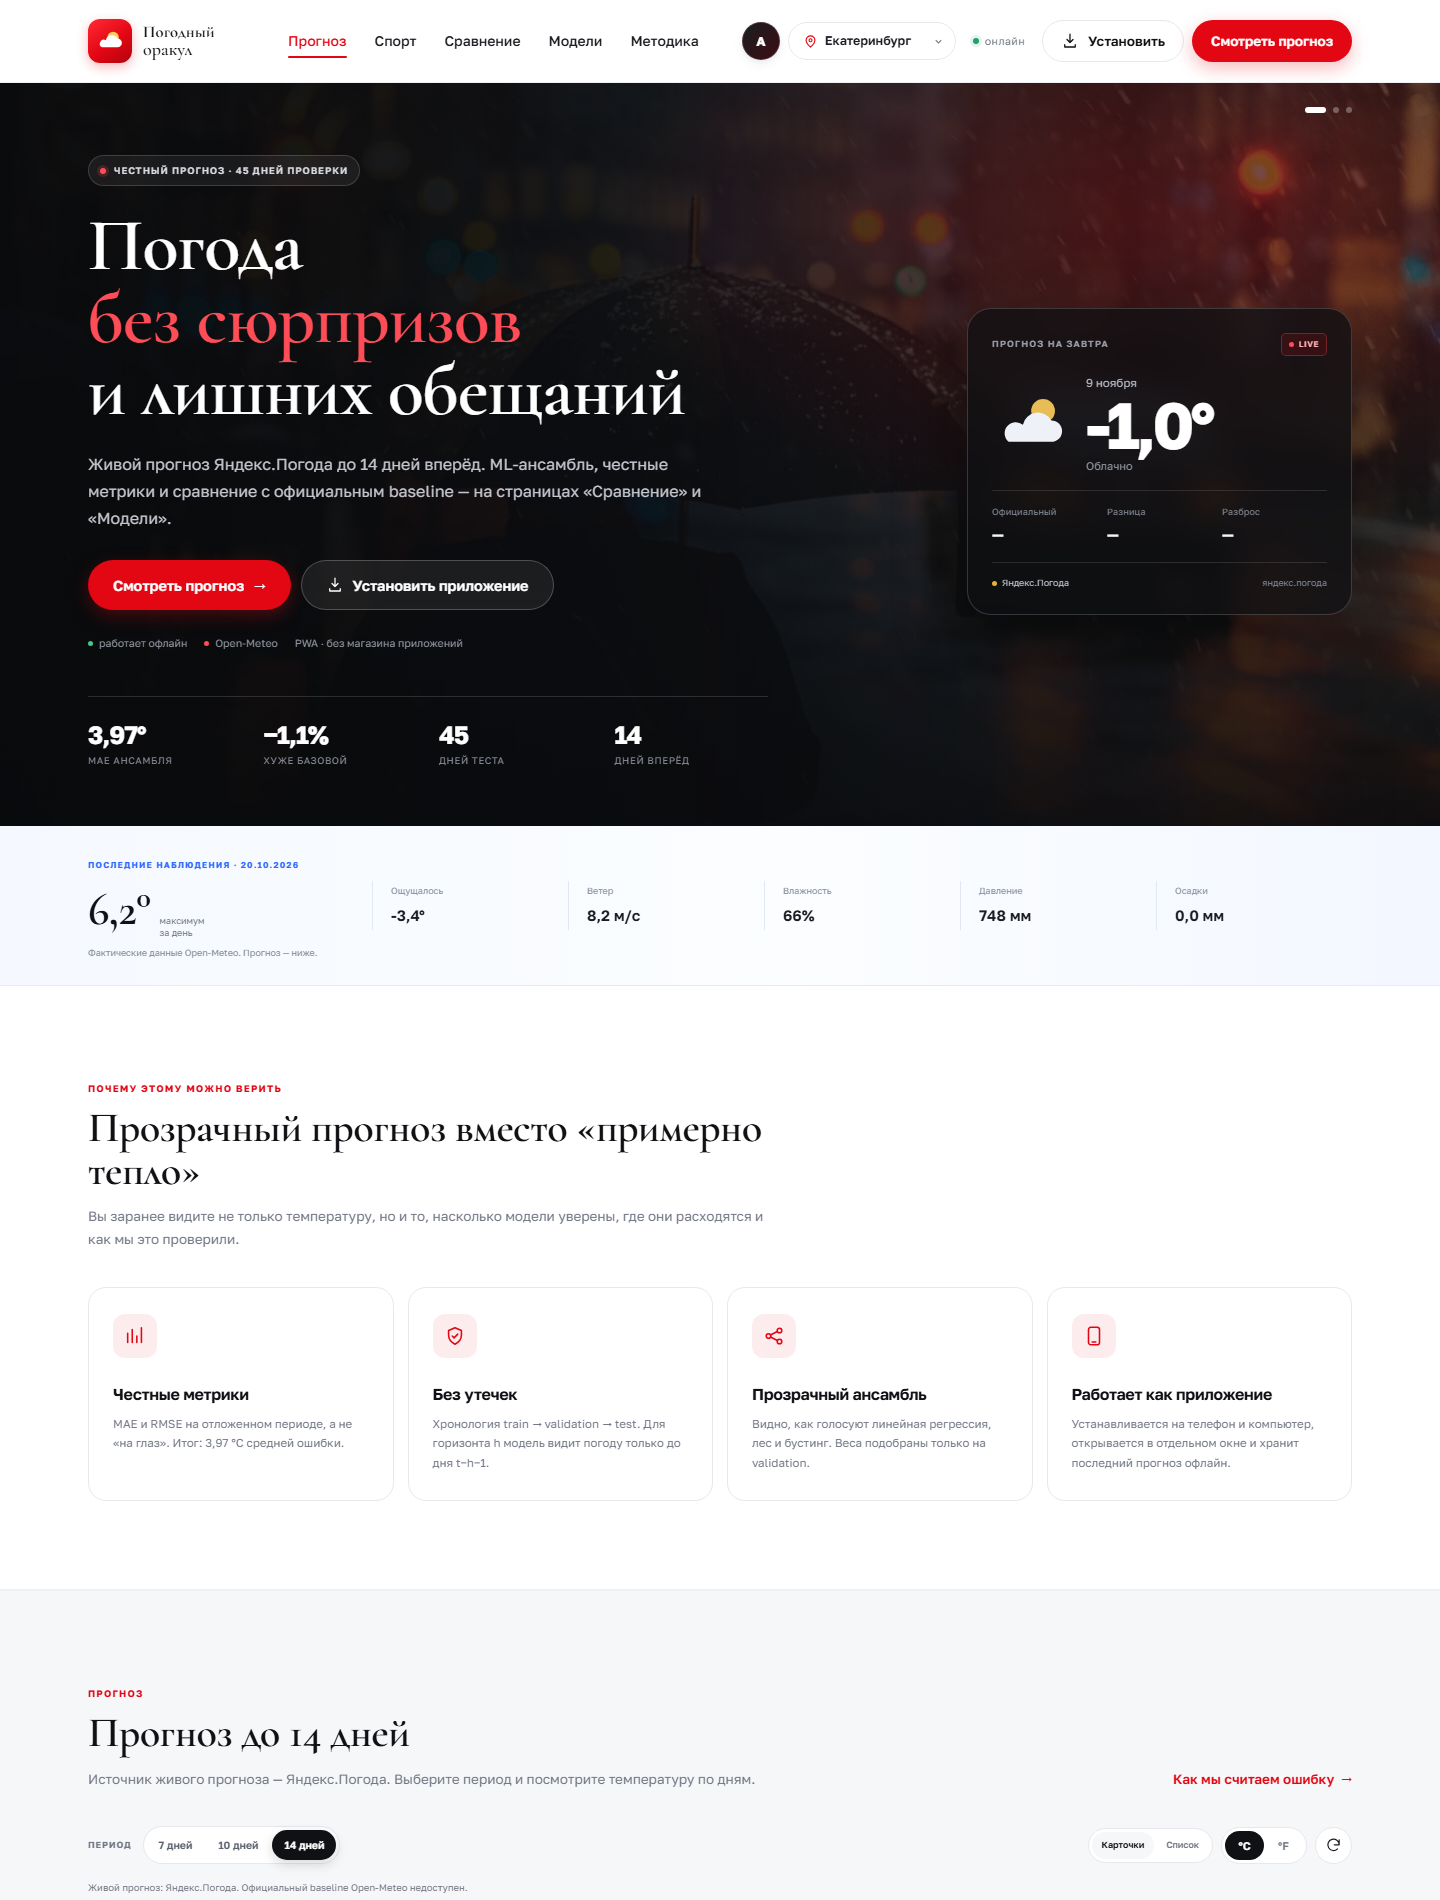
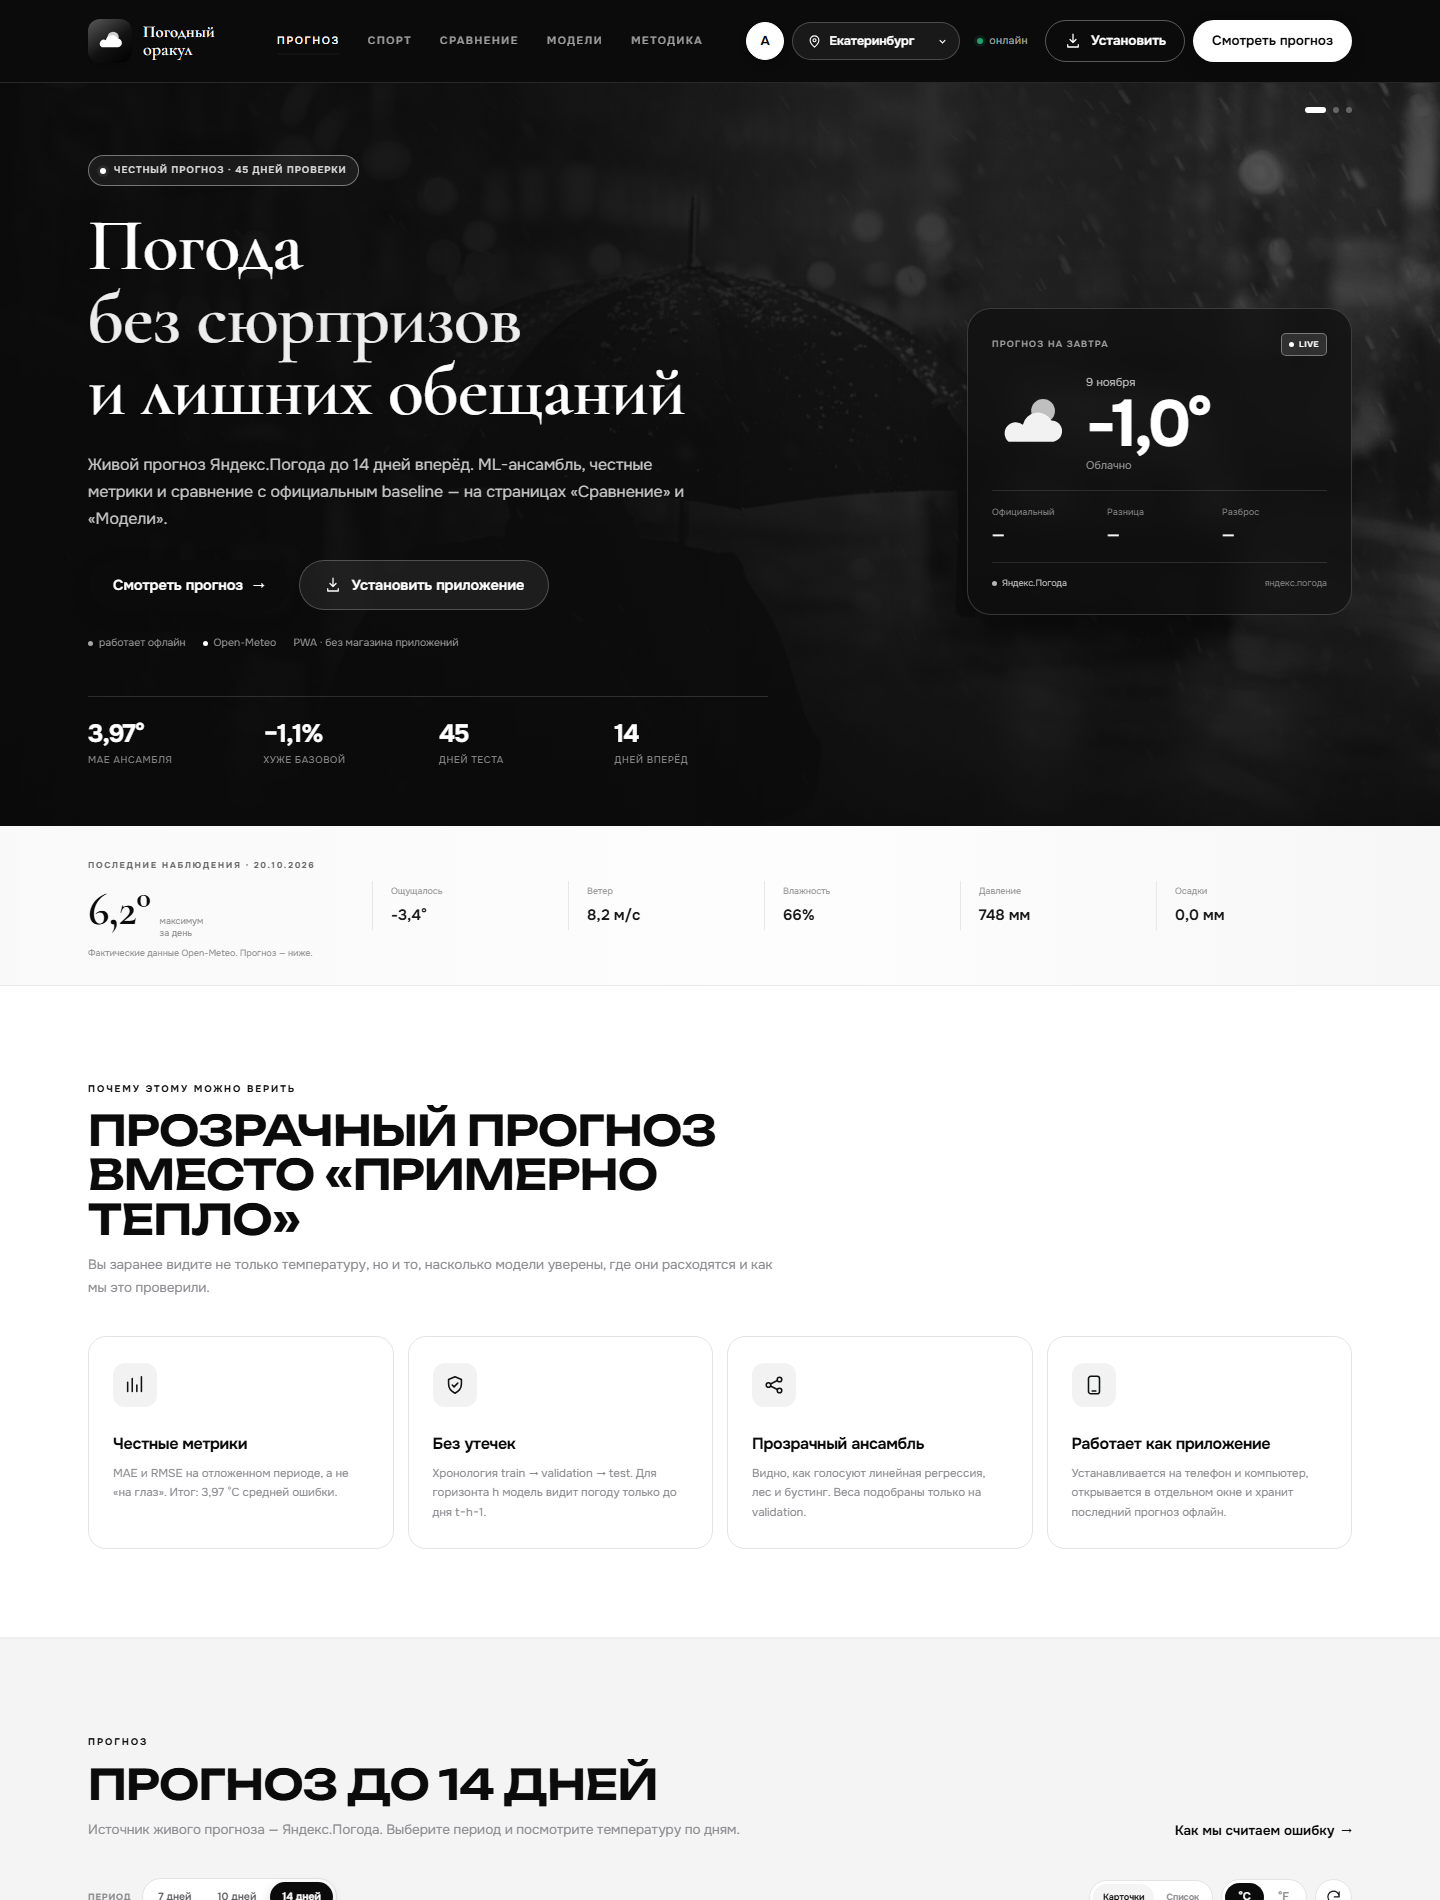
Монохромное оформление и алфавитный список городов
Чёрно-белая спортивная тема: чёрные шапка, подвал и мобильное меню, заголовки Unbounded капсом, текст Onest, фотографии и иллюстрации в ч/б, цветные акценты убраны.

Города в шапке теперь одним плоским списком по алфавиту (14 городов с моделями) вместо групп по регионам. Скриншоты README обновлены.

diff --git a/app/static/style.css b/app/static/style.css
@@ -2537,5 +2537,193 @@ td.muted { color: #a4a9b2; }
   .sport-pick { grid-template-columns: 1fr; }
 }
 
+/* ==========================================================================
+   Монохромная спортивная тема: чёрный, белый, серый.
+   Шрифты: Onest для текста, Unbounded для заголовков.
+   ========================================================================== */
+
+:root {
+  --red: #111214;
+  --red-dark: #000000;
+  --red-soft: #f2f2f2;
+  --red-glow: rgba(0, 0, 0, 0.12);
+  --ink: #0b0b0c;
+  --ink-2: #171718;
+  --ink-3: #262628;
+  --slate: #5d5d62;
+  --muted: #8b8b90;
+  --bg: #ffffff;
+  --bg-soft: #f4f4f4;
+  --bg-softer: #fafafa;
+  --line: #e3e3e3;
+  --line-2: #eeeeee;
+  --green: #141414;
+  --green-soft: #f1f1f1;
+  --amber: #4c4c50;
+  --amber-soft: #f3f3f3;
+  --volt: #ffffff;
+  --volt-soft: rgba(255, 255, 255, 0.16);
+  --night: #08080a;
+  --font: "Onest", "Golos Text", "Segoe UI", system-ui, sans-serif;
+}
+
+body { background: var(--bg); color: var(--ink); }
+
+/* --- типографика --- */
+
+.section h2 {
+  font-family: "Unbounded", var(--font);
+  font-weight: 600;
+  font-size: clamp(26px, 3.2vw, 42px);
+  line-height: 1.06;
+  letter-spacing: -0.02em;
+  text-transform: uppercase;
+}
+.sport-hero h3,
+.sport-banner h3,
+.sport-gallery-head h3,
+.profile-hero h3 {
+  font-family: "Unbounded", var(--font);
+  font-weight: 600;
+  letter-spacing: -0.02em;
+  text-transform: uppercase;
+}
+.kicker,
+.sport-mine-label,
+.sport-eyebrow { letter-spacing: 0.2em; }
+
+/* --- шапка: чёрная --- */
+
+.site-header {
+  background: #0b0b0c;
+  border-bottom: 1px solid rgba(255, 255, 255, 0.12);
+}
+.site-header .logo-word { color: #fff; }
+.site-header .main-nav a {
+  color: rgba(255, 255, 255, 0.62);
+  text-transform: uppercase;
+  letter-spacing: 0.16em;
+  font-size: 10.5px;
+}
+.site-header .main-nav a:hover,
+.site-header .main-nav a.is-active { color: #fff; }
+.site-header .city-trigger {
+  color: #fff;
+  background: rgba(255, 255, 255, 0.06);
+  border-color: rgba(255, 255, 255, 0.22);
+}
+.site-header .city-trigger svg { stroke: #fff; }
+.site-header .network-pill { color: rgba(255, 255, 255, 0.6); }
+.site-header .header-cta,
+.site-header .btn-primary { background: #fff; color: #0b0b0c; }
+.site-header .header-cta:hover,
+.site-header .btn-primary:hover { background: #dcdcdc; }
+.site-header .btn-outline { color: #fff; border-color: rgba(255, 255, 255, 0.32); background: transparent; }
+.site-header .btn-outline:hover { background: rgba(255, 255, 255, 0.12); }
+.site-header .profile-btn { background: #fff; color: #0b0b0c; border-color: #fff; }
+.site-header .profile-btn:hover { background: #d6d6d6; color: #000; }
+.logo-mark,
+.logo-mark svg { filter: grayscale(1); }
+
+/* --- кнопки и ссылки --- */
+
+.btn-primary { background: var(--ink); color: #fff; }
+.btn-primary:hover { background: #000; }
+.btn-outline { border-color: #c9c9c9; color: var(--ink); }
+.text-link { color: var(--ink); }
+.text-link:hover { color: #000; }
+
+/* --- подвал и мобильное меню: чёрные --- */
+
+.site-footer { background: #0b0b0c; color: rgba(255, 255, 255, 0.68); border-top: 0; }
+.site-footer a,
+.site-footer .footer-col span,
+.site-footer .footer-bottom,
+.site-footer .footer-meta p { color: rgba(255, 255, 255, 0.68); }
+.site-footer a:hover { color: #fff; }
+.site-footer .logo-word { color: #fff; }
+.footer-bottom { border-top: 1px solid rgba(255, 255, 255, 0.12); }
+
+.mobile-tabbar {
+  background: rgba(11, 11, 12, 0.97);
+  border-top-color: rgba(255, 255, 255, 0.12);
+}
+.mobile-tabbar a,
+.mobile-tabbar button { color: rgba(255, 255, 255, 0.58); }
+.mobile-tabbar a.is-active,
+.mobile-tabbar a:hover,
+.mobile-tabbar button:hover { color: #fff; }
+
+/* --- изображения: чёрно-белые --- */
+
+.hero-slide,
+.sport-gallery-art { filter: grayscale(1) contrast(1.06); }
+.sport-hero,
+.sport-banner,
+.profile-hero { filter: grayscale(1) contrast(1.04); }
+
+/* Секции с тёплыми градиентами и фото переводим в ч/б целиком. */
+.hero,
+.live-card,
+.trend-panel,
+.api-section,
+.now-strip,
+.api-console { filter: grayscale(1); }
+.hero h1 .accent { color: #ededed; }
+.hero-badge { border-color: rgba(255, 255, 255, 0.4); }
+.hero-badge i,
+.live-pill i,
+.dot-red { background: #ffffff; }
+.live-pill { border-color: rgba(255, 255, 255, 0.35); background: rgba(255, 255, 255, 0.12); color: #fff; }
+.k-ens { background: #111; }
+.tag-red { color: #111; background: #f0f0f0; }
+.sport-hero-score { border-color: rgba(255, 255, 255, 0.34); background: rgba(8, 8, 10, 0.66); }
+.sport-hero-score span,
+.sport-hero .sport-eyebrow,
+.sport-banner-link { color: #fff; }
+.sport-chip { background: #111; }
+.sport-chip svg { stroke: #fff; }
+
+/* --- статусы и индикаторы: оттенки серого --- */
+
+.sport-card.level-good { border-top-color: #111; }
+.sport-card.level-ok { border-top-color: #7a7a7e; }
+.sport-card.level-hard { border-top-color: #adadb1; }
+.sport-card.level-bad { border-top-color: #d6d6d6; }
+.sport-bar i { background: #111; }
+.sport-card.level-ok .sport-bar i { background: #6f6f73; }
+.sport-card.level-hard .sport-bar i { background: #a5a5a9; }
+.sport-card.level-bad .sport-bar i { background: #d2d2d2; }
+.sport-item.is-great .sport-item-label,
+.plan-status.is-great { color: #111; }
+.sport-item.is-ok .sport-item-label,
+.plan-status.is-ok { color: #6f6f73; }
+.sport-item.is-careful .sport-item-label,
+.plan-status.is-careful { color: #9c9ca0; }
+.sport-item-star { color: #111; }
+.sport-caution { background: #f2f2f2; color: #333; }
+.sport-item.is-great .sport-item-icon { color: #111; }
+.sport-item.is-ok .sport-item-icon { color: #6f6f73; }
+.sport-item.is-careful .sport-item-icon { color: #9c9ca0; }
+.sport-item.is-no .sport-item-icon { color: #c9c9cd; }
+
+/* --- профиль --- */
+
+.profile-avatar { border-color: #fff; background: #111; }
+.sport-pick-item.is-selected { background: #111; }
+.sport-pick-item.is-selected .sport-pick-icon { color: #fff; }
+.sport-pick-item.is-selected .sport-pick-check { border-color: #fff; background: #fff; }
+.switch-row input:checked + .switch { background: #111; }
+.profile-btn { background: #111; color: #fff; border-color: #111; }
+
+/* --- таблицы, графики, мелочи --- */
+
+.confidence-badge i,
+.dot-pulse { background: #111; }
+.trend-line { stroke: #111; }
+.condition-pill { color: #4a4a4e; background: #f2f2f2; }
+.forecast-lead-badge { color: #4a4a4e; background: #f2f2f2; }
+
+
 
 

diff --git a/app/service.py b/app/service.py
@@ -530,30 +530,36 @@ class WeatherOracleStore:
     def page_context(self, slug: str | None = None) -> dict[str, Any]:
         context = self.get(slug).page_context()
         selected_slug = context["city"]["slug"]
+
+        def sort_key(city: Any) -> str:
+            # Ё в русском алфавите идёт после Е, а в Unicode — раньше.
+            return str(city.city["name"]).replace("ё", "е").replace("Ё", "Е").casefold()
+
+        ordered = sorted(self.cities.values(), key=sort_key)
         context["cities"] = [
             {
                 "slug": city.slug,
                 "name": city.city["name"],
                 "selected": city.slug == selected_slug,
             }
-            for city in self.cities.values()
+            for city in ordered
         ]
-        groups = []
-        for group in CITY_GROUPS:
-            items = [
-                {
-                    "slug": slug_item,
-                    "name": self.cities[slug_item].city["name"],
-                    "latitude": self.cities[slug_item].city["latitude"],
-                    "longitude": self.cities[slug_item].city["longitude"],
-                    "selected": slug_item == selected_slug,
-                }
-                for slug_item in group["slugs"]
-                if slug_item in self.cities
-            ]
-            if items:
-                groups.append({"label": group["label"], "cities": items})
-        context["city_groups"] = groups
+        # Один плоский список всех городов в алфавитном порядке.
+        context["city_groups"] = [
+            {
+                "label": "Все города",
+                "cities": [
+                    {
+                        "slug": city.slug,
+                        "name": city.city["name"],
+                        "latitude": city.city["latitude"],
+                        "longitude": city.city["longitude"],
+                        "selected": city.slug == selected_slug,
+                    }
+                    for city in ordered
+                ],
+            }
+        ]
         return context
 
     def live_forecast(self, slug: str | None = None, *, force: bool = False) -> dict[str, Any]:

diff --git a/README.md b/README.md
@@ -43,12 +43,13 @@
 
 ### Приложение и оформление
 
-Интерфейс переработан в устанавливаемое PWA. Визуальный язык взят с прошлого
-сайта [LM Service](https://closed-star.vps.ktk-45.ru/): Golos Text и Cormorant Garamond,
-красный акцент `#e30613`, тёмный фото-hero, крупная типографика, карточки,
-пилюли-фильтры и модальные окна.
+Интерфейс переработан в устанавливаемое PWA. Оформление — монохромное,
+спортивное: чёрный, белый и серый, крупные заголовки Unbounded капсом,
+текст Onest, тонкие линии, чёрная шапка и подвал, фотографии и иллюстрации
+в чёрно-белом виде. Никаких цветных акцентов, кроме оттенков серого.
 
-В шапке приложения — выбор из 14 городов, сгруппированных по регионам.
+В шапке приложения — все города, для которых обучены модели, одним списком
+в алфавитном порядке (с поиском и определением ближайшего города).
 Разделы вынесены на отдельные страницы: `/forecast`, `/sport`, `/profile`,
 `/compare`, `/models`, `/method`. При смене города текущая страница сохраняется.
 В hero-блоке — автоматическое слайдшоу из трёх локальных фотографий с точками

diff --git a/CHANGELOG.md b/CHANGELOG.md
@@ -3,6 +3,17 @@
 Формат вдохновлён Keep a Changelog. Версии условные: проект учебный,
 но история помогает понять, что и зачем менялось.
 
+## 1.4.0 — 08.11.2026
+
+### Изменено
+
+- Монохромное спортивное оформление: чёрный, белый и серый вместо красного
+  акцента. Чёрные шапка, подвал и мобильное меню, заголовки Unbounded капсом,
+  текст Onest, фотографии и иллюстрации переведены в чёрно-белый вид.
+- Список городов в шапке — один плоский алфавитный список (все 14 городов
+  с обученными моделями, «Ё» учитывается как «Е») вместо групп по регионам.
+- Скриншоты в README обновлены под новую тему.
+
 ## 1.3.0 — 08.11.2026
 
 ### Добавлено
